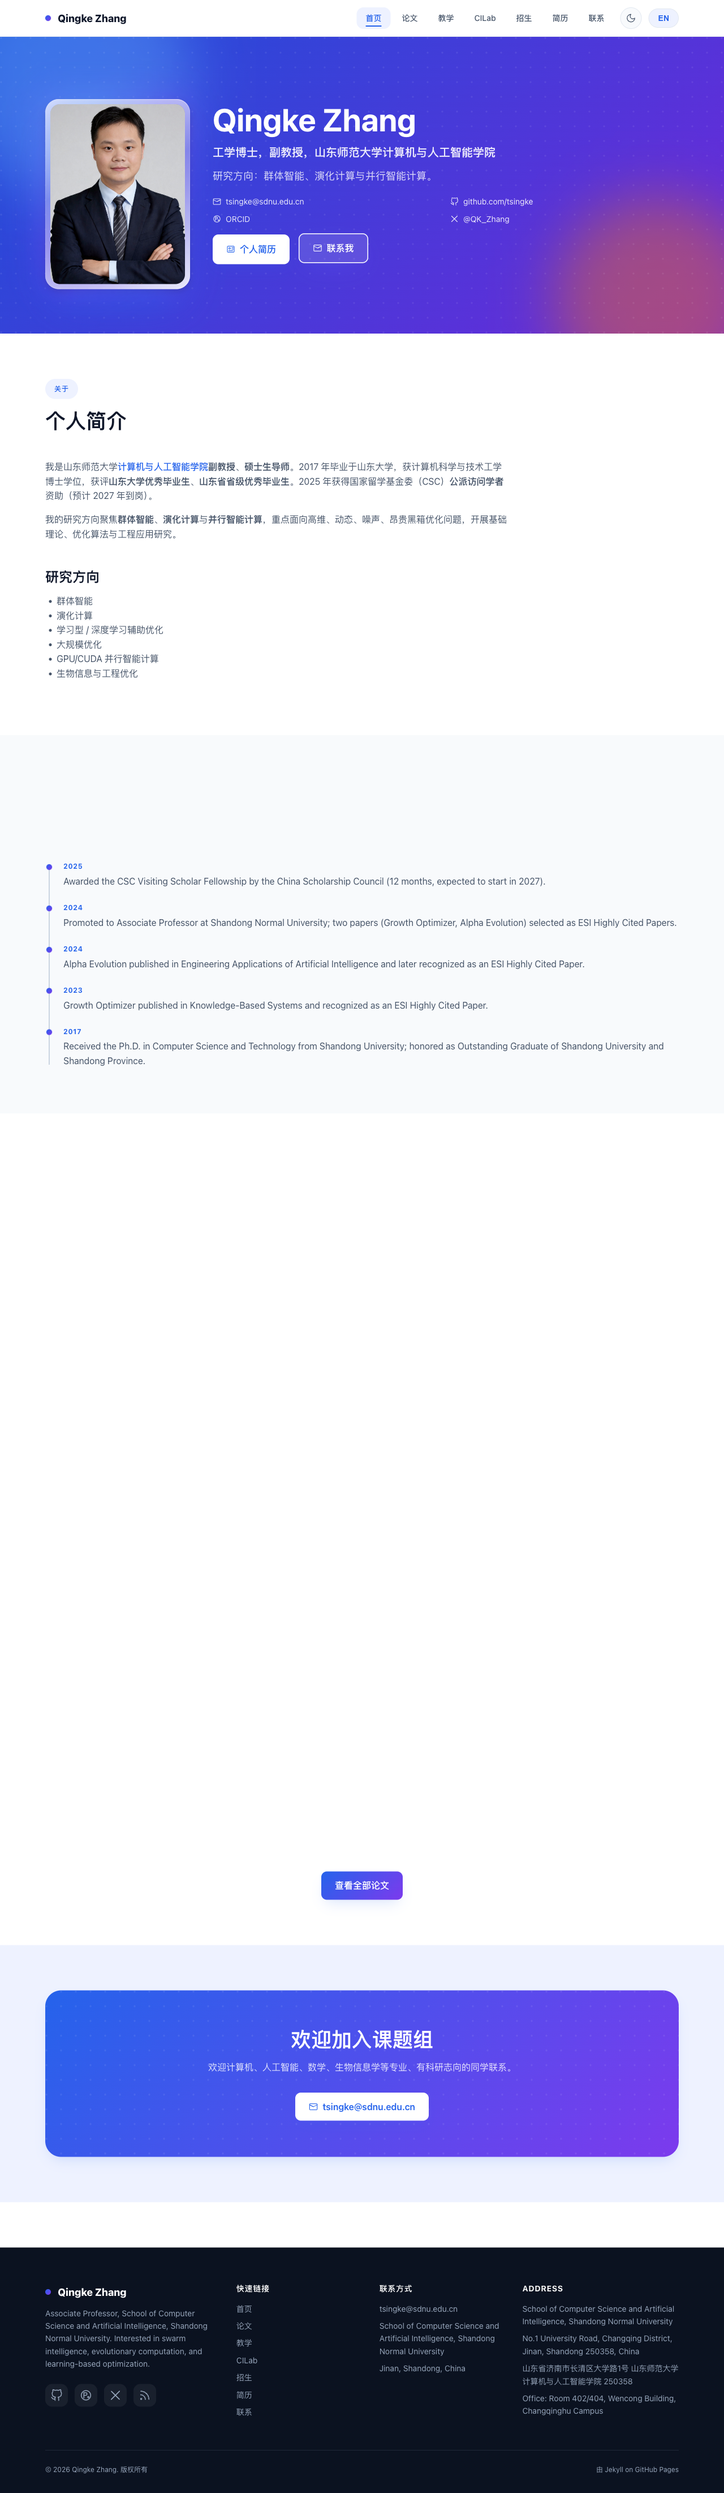
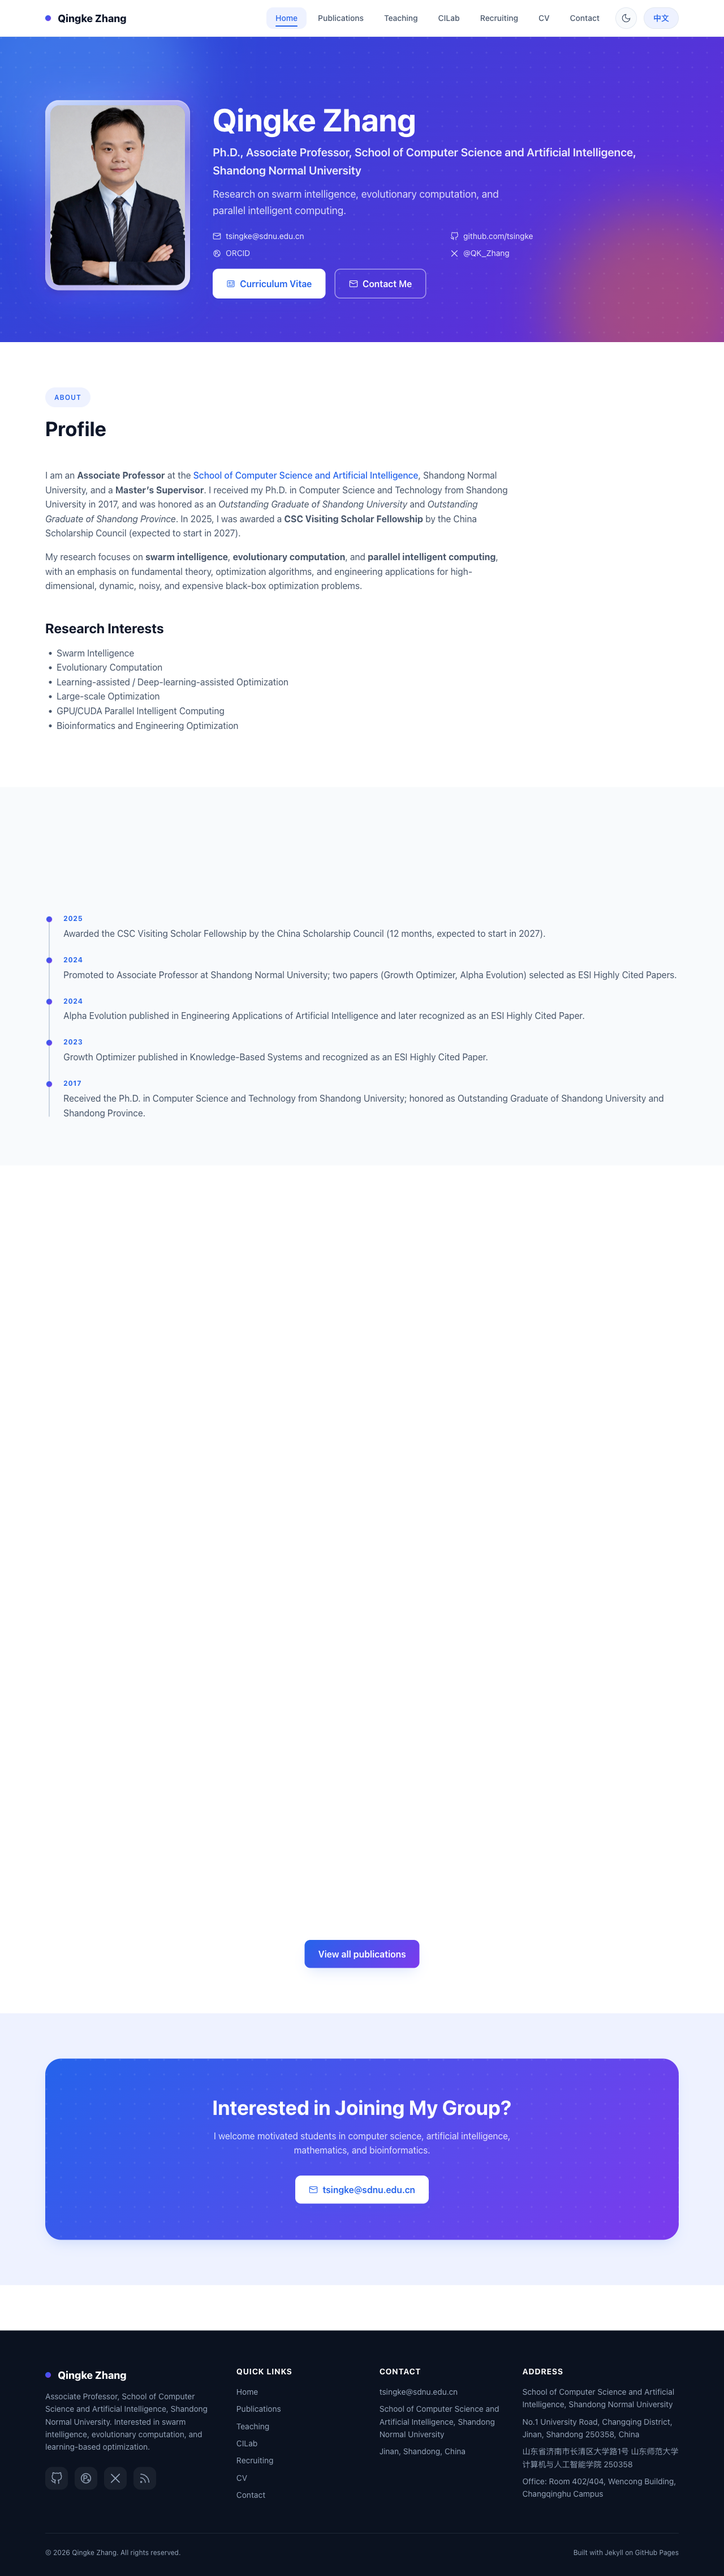
README: English CV preview as primary, single English homepage screenshot

diff --git a/README.md b/README.md
@@ -15,13 +15,13 @@
 
 ## 📸 预览 Preview
 
-**桌面版 Desktop** — 深蓝紫渐变 Hero · 左矩形照片 + 右个人信息 · 精选论文图文卡
+**英文简历 English CV** — 完整学术履历（可在 /cv/ 页下载 PDF）
 
-![Desktop preview](images/screenshot-home.png)
+![English CV](images/cv-en-preview.png)
 
-**移动版 Mobile** — 完全响应式 · 汉堡导航 · 内容自适应
+**英文首页 Homepage (English)** — 深蓝紫渐变 Hero · 左矩形照片 + 右个人信息 · 精选论文图文卡
 
-![Mobile preview](images/screenshot-mobile.png)
+![Homepage](images/screenshot-home.png)
 
 ---
 
